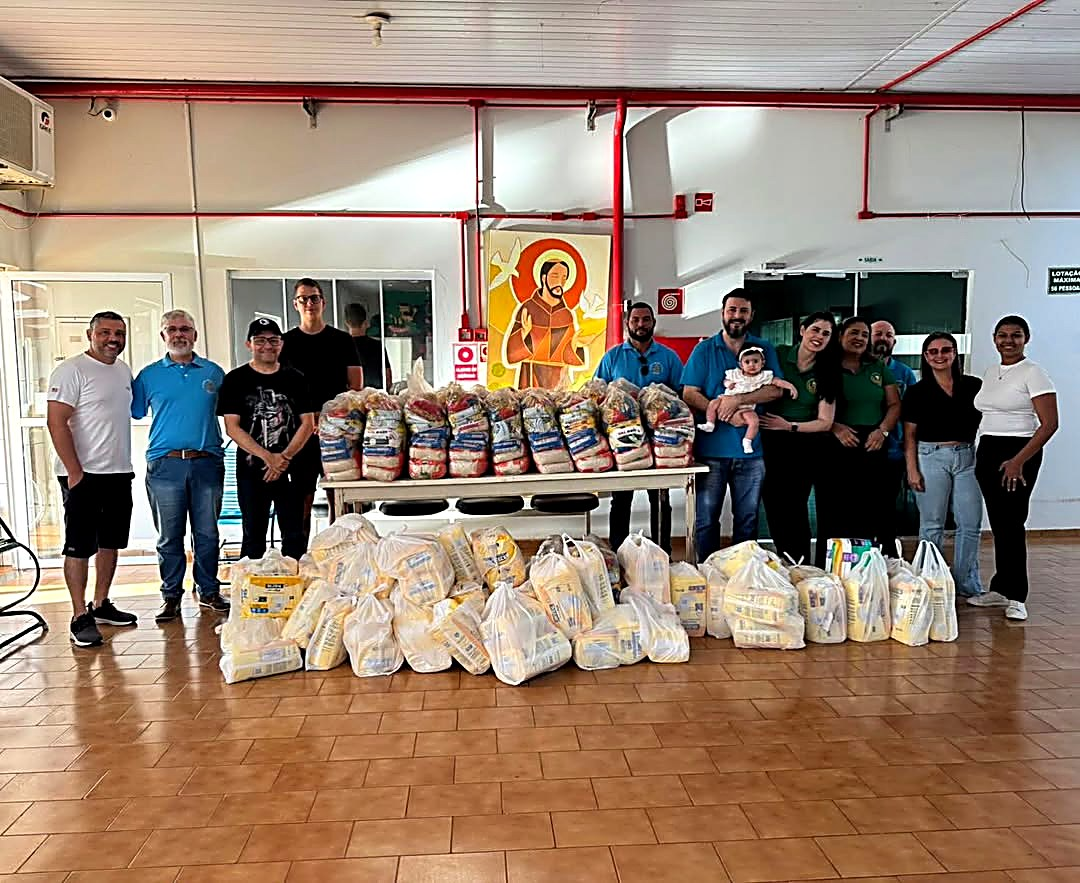
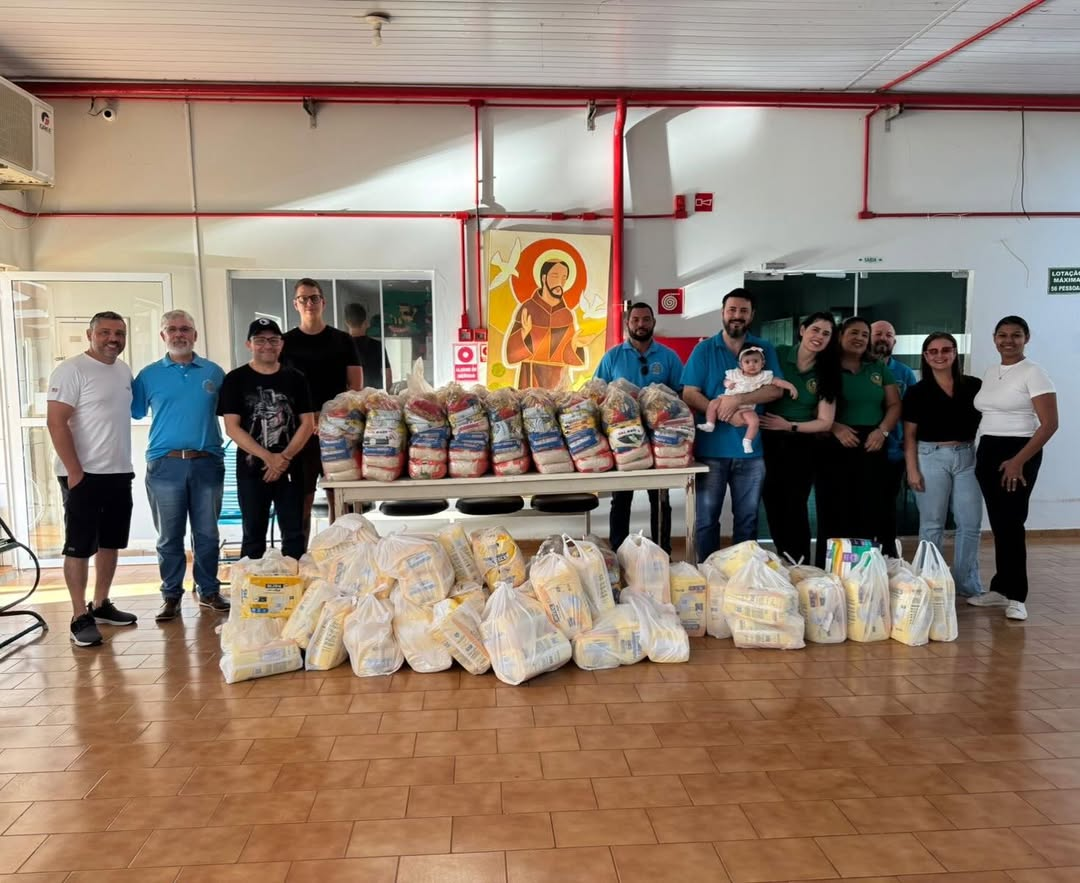
att 10/07/26
att do favicon e lag

diff --git a/src/app/layout.tsx b/src/app/layout.tsx
@@ -1,5 +1,11 @@
 import type { Metadata } from "next";
 import "./globals.css";
+// Fontes self-hospedadas (arquivos ficam dentro do próprio projeto, sem
+// nenhuma requisição externa ao Google Fonts — nem em build nem em runtime).
+// Isso elimina a cadeia de requisições bloqueante que causava o lag.
+import "@fontsource-variable/lora/wght.css";
+import "@fontsource-variable/lora/wght-italic.css";
+import "@fontsource-variable/plus-jakarta-sans/wght.css";
 import Header from "@/components/Header";
 import Footer from "@/components/Footer";
 import ActionBarMobile from "@/components/ActionBarMobile";
@@ -35,14 +41,16 @@ export const metadata: Metadata = {
   ],
   metadataBase: new URL(SITE_URL),
   // Favicon declarado explicitamente via metadata.icons apontando para public/
-  // (abordagem mais confiável no Netlify — arquivos em public/ chegam sempre no deploy)
+  // (abordagem mais confiável no Netlify — arquivos em public/ chegam sempre no deploy).
+  // O "?v=2" força o navegador a tratar como um arquivo novo — favicon é o recurso
+  // mais teimoso pra cache do navegador, ignora até header de cache-control às vezes.
   icons: {
     icon: [
-      { url: "/favicon.ico", sizes: "48x48", type: "image/x-icon" },
-      { url: "/icon-192.png", sizes: "192x192", type: "image/png" },
+      { url: "/favicon.ico?v=2", sizes: "48x48", type: "image/x-icon" },
+      { url: "/icon-192.png?v=2", sizes: "192x192", type: "image/png" },
     ],
     apple: [
-      { url: "/apple-icon.png", sizes: "180x180", type: "image/png" },
+      { url: "/apple-icon.png?v=2", sizes: "180x180", type: "image/png" },
     ],
   },
 };

diff --git a/src/components/sections/Hero.tsx b/src/components/sections/Hero.tsx
@@ -21,10 +21,10 @@ export default function Hero({
             src="/foto-hero.jpg"
             alt=""
             fill
-            className="object-cover opacity-45"
+            className="object-cover opacity-30"
             priority
           />
-          <div className="absolute inset-0 bg-gradient-to-b from-svp-dark/60 via-svp-dark/82 to-svp-dark" />
+          <div className="absolute inset-0 bg-gradient-to-b from-svp-dark/55 via-svp-dark/80 to-svp-dark" />
         </div>
 
         <div className="relative max-w-6xl mx-auto px-5 lg:px-8 pt-10 pb-24 lg:pt-20 lg:pb-32">

diff --git a/src/app/globals.css b/src/app/globals.css
@@ -1,12 +1,10 @@
-@import url('https://fonts.googleapis.com/css2?family=Lora:ital,wght@0,400;0,500;0,600;0,700;1,400;1,600&family=Plus+Jakarta+Sans:wght@400;500;600;700&display=swap');
-
 @tailwind base;
 @tailwind components;
 @tailwind utilities;
 
 :root {
-  --font-lora: 'Lora', Georgia, serif;
-  --font-jakarta: 'Plus Jakarta Sans', system-ui, sans-serif;
+  --font-lora: 'Lora Variable', Georgia, serif;
+  --font-jakarta: 'Plus Jakarta Sans Variable', system-ui, sans-serif;
 }
 
 html {
